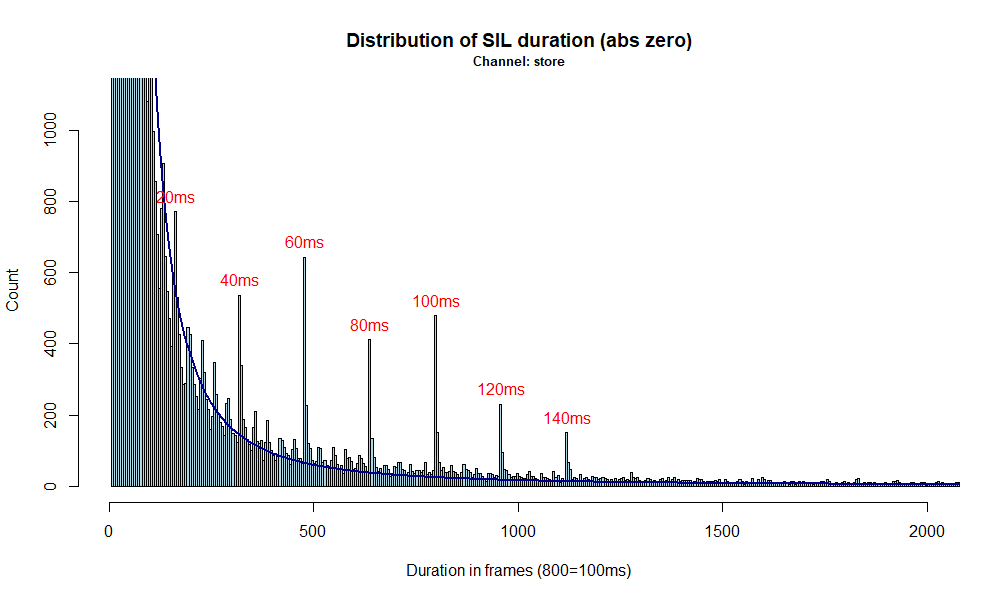
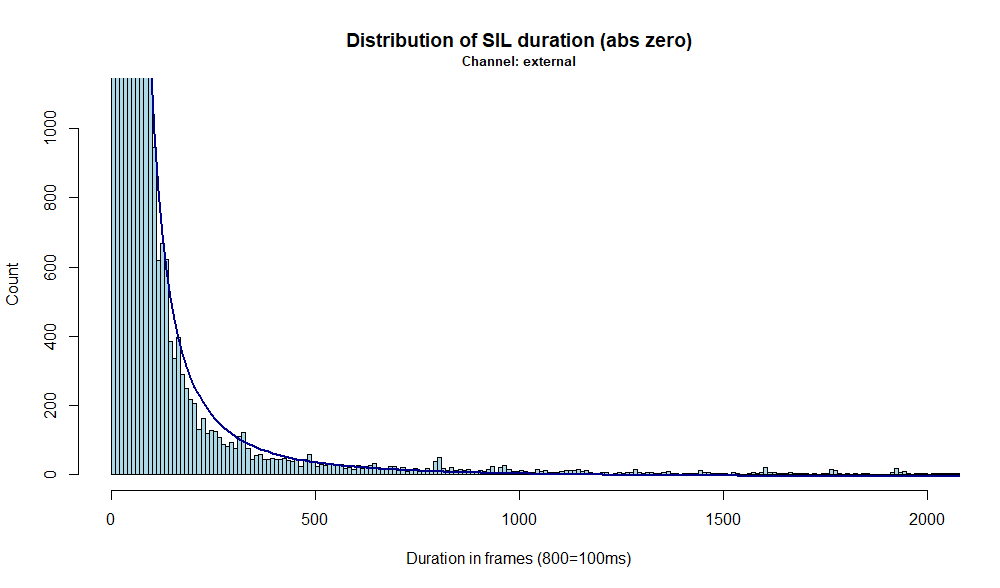
Improve docs, +samples

diff --git a/README.md b/README.md
@@ -17,6 +17,12 @@ received    94  calls (no-empty)
 total dur    4  hours (4:02:37.64)
 ```
 
+### Call duration 
+* total 4 hours (4:02:37.64)
+* distribution (omitting 10 empty calls)
+![call-durations.png](doc/pix/call-durations.png)
+
+
 
 ### File naming 
 * each call has 3 recordings 
@@ -68,7 +74,8 @@ Sample Encoding: 16-bit Signed Integer PCM
 
 
 # Analysis
-## Silent gaps
+
+## Low quality regions
 * higher frequency components are attenuated/reduced/flattened
 * [better quality sample](doc/audio/good-quality-store.wav)
 * [bad quality sample](doc/audio/bad-quality-store.wav)
@@ -78,8 +85,29 @@ Sample Encoding: 16-bit Signed Integer PCM
 ![power-spec_bad-quality-store.png](doc/pix/power-spec_bad-quality-store.png)
 
 ## Silent gaps
-* audio is zeroed all of a sudden
-* happens both during speech and during slience 
+* audio amplitude is zeroed all of a sudden 
+  * white band in spectrogram
+* happens both (a) during speech and (b) during silence
+  * not due to misconfigured VAD or noise-/echo cancellation  
+![spectrogram_sil-sample.png](doc/pix/spectrogram_sil-sample.png)
 
-![hist-out-abs_zero.png](doc/pix/hist-out-abs_zero.png)
+
+## Distrucbution of silence duration 
+* SIL is normal 
+  * crossing & hitting zero
+  * VAD or noice cancellaion -> zero-ing out everything if there is no speech 
+* SIL is not normal if it occurs within speech 
+* distribution of SIL duration
+### SIL in outbound 
+* SIL in **outbound** channel
+* remarkable peaks -> forced by package loss (package size == 20ms?)
+
+![hist-gap-dur_store.png](doc/pix/hist-gap-dur_store.png)
+
+
+### SIL in outbound 
+* SIL in **inbound** channel
+* no peaks -> no/less packet drops
+* smooth (power) distribution  
+![hist-gap-dur_external.png](doc/pix/hist-gap-dur_external.png)
 
